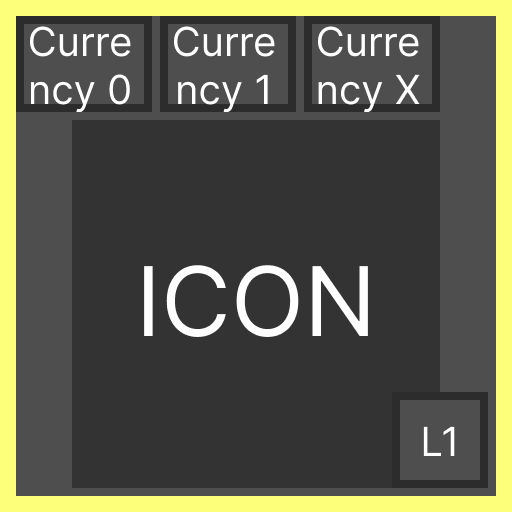
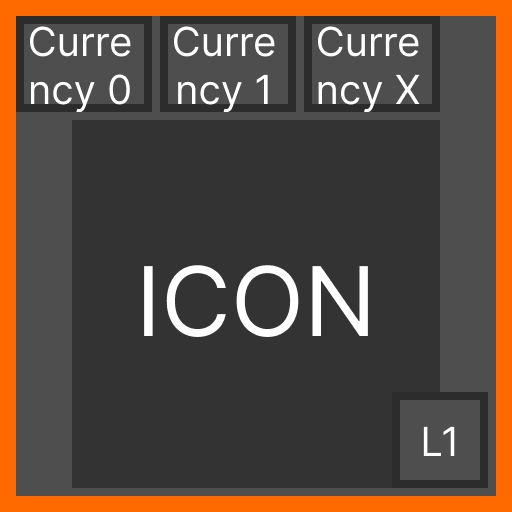
ADD Surface Copy Contructor + ADD grid hover texture change

Changed region(s): [[0.0, 0.0, 1.0, 1.0]]

diff --git a/Game/src/UpgradeTree/Grid.cpp b/Game/src/UpgradeTree/Grid.cpp
@@ -27,6 +27,7 @@ Grid::Grid()
 	m_nodeList.clear();
 
 	Surface* numberedSurface = new Surface(m_nodeSurface->GetSize().x, m_nodeSurface->GetSize().y, false);
+	Surface* numberedHoveredSurface = new Surface(m_nodeSurface->GetSize().x, m_nodeSurface->GetSize().y, false);
 	int idx = 0;
 	int2 pos{0};
 	pos += m_gridMargin;
@@ -35,12 +36,14 @@ Grid::Grid()
 		for(int col = 0; col < m_count.x; ++col)
 		{
 			numberedSurface->Clear(0);
+			numberedHoveredSurface->Clear(0);
 			m_nodeSurface->CopyTo(*numberedSurface, 0, 0);
+			m_nodeHoveredSurface->CopyTo(*numberedHoveredSurface, 0, 0);
 			m_textRenderer->DrawOnSurface(numberedSurface, std::to_string(idx), 85, 135, 10);
-			// const int2 pos = int2((m_tileLength.x + m_spacing.x) * col + m_gridMargin.x,
-			// (m_tileLength.y + m_spacing.y) * row + m_gridMargin.y);
+			m_textRenderer->DrawOnSurface(numberedHoveredSurface, std::to_string(idx), 85, 135, 10);
 			numberedSurface->CopyTo(*m_gridSurface->GetSurface(), pos.x, pos.y);
-			VNode* node = new VNode(idx, pos);
+
+			VNode* node = new VNode(idx, pos, new Surface(*numberedSurface, false), new Surface(*numberedHoveredSurface, false));
 			m_nodeList.push_back(node);
 
 			idx++;
@@ -97,7 +100,7 @@ void Grid::Update(float deltaTime)
 	float rowF = float(mousePosOnGridI.y - m_gridMargin.y) / float(m_nodeSurface->GetHeight() + m_spacing.y);
 	float dummy{0.0f};
 	const bool isInEmptySpace =
-		colF < 0 || rowF < 0 ||
+		colF < 0 || rowF < 0 || colF >= m_count.x || rowF >= m_count.y ||
 		modf(colF, &dummy) > m_noneTileMousePosDecimal.x ||
 		modf(rowF, &dummy) > m_noneTileMousePosDecimal.y;
 	int colI = isInEmptySpace ? -1 : int(colF);
@@ -106,6 +109,16 @@ void Grid::Update(float deltaTime)
 
 	if(idx != m_hoveredIdx)
 	{
+		if(m_hoveredIdx != -1)
+		{
+			const VNode* unHoveredNode = m_nodeList[m_hoveredIdx];
+			unHoveredNode->m_surface->CopyTo(*m_gridSurface->GetSurface(), unHoveredNode->m_pixelPos.x, unHoveredNode->m_pixelPos.y);
+		}
+		if(idx != -1)
+		{
+			const VNode* hoveredNode = m_nodeList[idx];
+			hoveredNode->m_surfaceHovered->CopyTo(*m_gridSurface->GetSurface(), hoveredNode->m_pixelPos.x, hoveredNode->m_pixelPos.y);
+		}
 		m_hoveredIdx = idx;
 		SKEL_INFO("idx: {}", m_hoveredIdx);
 	}

diff --git a/SkelFramework/src/Renderer/Surface.cpp b/SkelFramework/src/Renderer/Surface.cpp
@@ -67,6 +67,16 @@ skel::Surface::Surface(const std::string& file, bool needGPUTexture)
 	if(needGPUTexture) InitTexture();
 }
 
+Surface::Surface(const Surface& surface, const bool needGPUTexture)
+{
+	m_width = surface.GetWidth();
+	m_height = surface.GetHeight();
+	m_pixels = new uint32_t[m_height * m_width];
+	// Clear(0);
+	if(needGPUTexture) InitTexture();
+	surface.CopyTo(*this, 0, 0);
+}
+
 skel::Surface::~Surface()
 {
 	delete[] m_pixels;

diff --git a/SkelFramework/include/Renderer/Surface.h b/SkelFramework/include/Renderer/Surface.h
@@ -7,10 +7,11 @@ namespace skel
 	public:
 		Surface(int width, int height, bool needGPUTexture);
 		Surface(const std::string& file, bool needGPUTexture);
+		Surface(const Surface& surface, bool needGPUTexture);
 		~Surface();
 
-		Surface(const Surface& other) = delete;
-		Surface& operator=(const Surface& other) = delete;
+		// Surface(const Surface& other) = delete;
+		// Surface& operator=(const Surface& rhs);
 
 		// rendering
 

diff --git a/Game/src/UpgradeTree/Grid.h b/Game/src/UpgradeTree/Grid.h
@@ -28,6 +28,7 @@ private:
 	int2 m_totalLength{0};
 	float2 m_noneTileMousePosDecimal{0};
 	int m_hoveredIdx{-1};
+	Surface* m_hoveredSurface{nullptr};
 
 	UpgradeTree* m_upgradeTree{nullptr};
 	Surface* m_screen{nullptr};
@@ -38,5 +39,5 @@ private:
 	Surface* m_nodeSurface{nullptr};
 	Surface* m_nodeHoveredSurface{nullptr};
 
-	std::list<VNode*> m_nodeList;
+	std::vector<VNode*> m_nodeList;
 };
